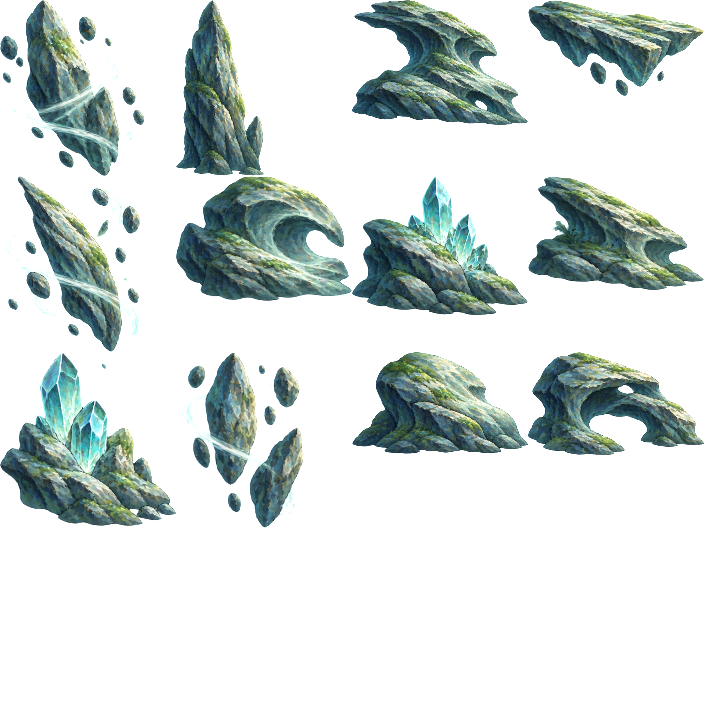
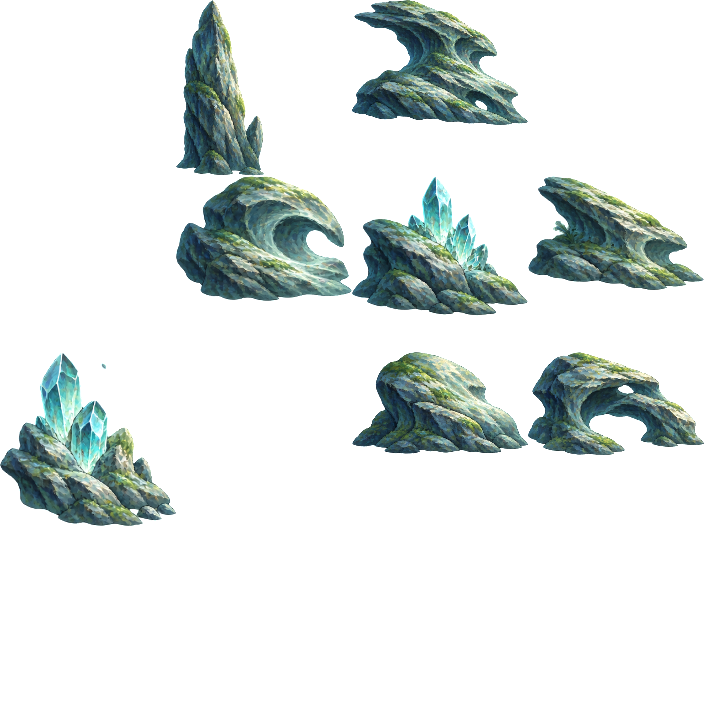
tira os 4 sprites de arte levitante da Galeria de Vento
wind_01, wind_05 e wind_10 sao aglomerados de rocha flutuando com vento ao
redor. wind_04 e uma plataforma com pedrinhas penduradas embaixo. Sao pecas feitas
para pairar, e numa grade isometrica — onde cada rocha assenta num tile e e
quebrada com a picareta — uma peca flutuando nao le como arte. Le como bug, e o
jogador nao tem como distinguir "a arte e assim" de "o jogo quebrou".

A deteccao e automatica e esta no slice-rocks.mjs, nao foi o meu olho: uma rocha
que senta no chao e UM corpo conexo, e estilhaco que paira em volta e um segundo.
Medido nos 75 sprites, a regra descarta exatamente estes 4 e NENHUM dos outros
71 — crystal, ember, frost, ruins e sunstone tem zero pecas soltas.

A base estreita era o criterio errado, e quase custou dois sprites bons
---------------------------------------------------------------------------
crystal_05 (afloramento com cristais) e ember_13 (plataforma de lava vista de
cima) tem base de 10% e 12% da largura, e as duas sao arte valida. A primeira
hipotese foi "afunila demais na base, entao equilibra numa ponta" — plausivel na
tela, e errada nos dados. Cheguei nela depois de medir buracos no alfa (nenhum
sprite tinha peca solta por buraco: as pecas do vento se tocam no alfa), e o que
separou o certo do errado foi a analise de componentes conexas.

A Galeria de Vento passa a ter 8 sprites, de 12. A contagem por bioma ja era
necessaria porque frost tem 14; agora o Vento e o outro extremo, e ROCK_VARIANT_COUNT
[…]

Changed region(s): [[0.0, 0.0, 0.2188, 0.5], [0.25, 0.5, 0.4375, 0.75], [0.75, 0.0, 1.0, 0.1562]]

diff --git a/src/game/rocks.js b/src/game/rocks.js
@@ -36,24 +36,27 @@ export const ROCK_SHEET_ROWS = 4;
 /**
  * Quantos modelos cada bioma tem.
  *
- * Vem do `manifest.json` que acompanha os sprites individuais, e o
- * `scripts/slice-rocks.mjs` escreve este arquivo. O jogo não pode ter um número
- * só: frost tem 14 sprites e sunstone tem 12, e sortear 12 em cima dos 14
- * deixaria dois modelos fora da rodagem toda.
+ * Vem do `manifest.json` que acompanha os sprites individuais, MENOS os que o
+ * `slice-rocks.mjs` recusa por serem arte levitante. A Galeria de Vento tem 12
+ * no manifest e 8 aqui: `wind_01`, `wind_04`, `wind_05` e `wind_10` são
+ * aglomerados e plataformas que flutuam de propósito, e rocha que flutua
+ * numa grade de tiles lê como bug.
  *
- * `min` é o piso, usado quando a folha ainda não foi gerada. É o menor número
- * do jogo de propósito: com uma folha ausente, sortear acima da contagem daria
- * índice fora de faixa, e índice fora de faixa é o placeholder de textura
- * ausente, com 35 caixas pretas na tela.
+ * O jogo não pode ter um número só: frost tem 14 e wind tem 8, e sortear o
+ * maior em cima do menor deixaria modelos fora da folha — que é o placeholder
+ * de textura ausente, com dezenas de caixas pretas na tela.
+ *
+ * `ROCK_VARIANT_COUNT` é o piso, usado quando a folha ainda não foi gerada. É o
+ * menor número do jogo de propósito, pelo mesmo motivo.
  */
-export const ROCK_VARIANT_COUNT = 12;
+export const ROCK_VARIANT_COUNT = 8;
 
 export const ROCK_VARIANT_COUNTS = {
   sunstone: 12,
   frost: 14,
   ember: 13,
   ruins: 12,
-  wind: 12,
+  wind: 8,
   crystal: 12
 };
 

diff --git a/CHANGELOG.md b/CHANGELOG.md
@@ -5,7 +5,34 @@ Este projeto segue [SemVer](https://semver.org/lang/pt-BR/).
 
 ## [Não publicado]
 
+### Removido
+
+- **Quatro sprites de arte levitante da Galeria de Vento**: `wind_01`, `wind_04`,
+  `wind_05` e `wind_10`.
+
+  `wind_01`, `wind_05` e `wind_10` são aglomerados de rocha flutuando com vento
+  ao redor. `wind_04` é uma plataforma com pedrinhas penduradas embaixo. São
+  peças feitas para pairar, e numa grade isométrica — onde cada rocha assenta num
+  tile e é quebrada com a picareta — uma peça flutuando não lê como arte. Lê
+  como bug, e o jogador não tem como distinguir "a arte é assim" de "o jogo
+  quebrou".
+
+  A detecção é automática e está no `slice-rocks.mjs`, não foi o meu olho: uma
+  rocha que senta no chão é **um** corpo conexo, e estilhaço que paira em volta é
+  um segundo. Medido nos 75 sprites, a regra descarta exatamente estes 4 e
+  **nenhum** dos outros 71 — crystal, ember, frost, ruins e sunstone têm zero
+  peças soltas.
+
+  **A base estreita era o critério errado, e quase custou dois sprites bons.**
+  `crystal_05` (afloramento com cristais) e `ember_13` (plataforma de lava vista
+  de cima) têm base de 10% e 12% da largura, e as duas são arte válida. A
+  primeira hipótese foi "afunila demais na base, então equilibra numa ponta" —
+  plausível na tela, e errada nos dados.
+
 ### Mudado
+
+- **A Galeria de Vento passa a ter 8 sprites**, de 12. A contagem por bioma já
+  era necessária (frost tem 14), e agora o Vento é o outro extremo.
 
 - **As rochas agora são doze ou quatorze assuntos diferentes por bioma**, e não
   variações de pose do mesmo assunto. Vem dos sprites individuais entregues no
@@ -34,10 +61,10 @@ Este projeto segue [SemVer](https://semver.org/lang/pt-BR/).
   Nenhum par duplicado, em nenhum dos seis.
 
   - **A contagem de sprites varia por bioma**, e isso quebrou o número único.
-    Com 12 a 14 modelos, sortear de 0 a 11 num bioma de 14 funciona e ninguém
+    Com 8 a 14 modelos, sortear de 0 a 11 num bioma de 14 funciona e ninguém
     percebe: dois modelos simplesmente nunca aparecem. `ROCK_VARIANT_COUNTS`
-    guarda a contagem de cada um, e há teste garantindo que os doze a catorze
-    aparecem mesmo jogando o bioma inteiro.
+    guarda a contagem de cada um, e há teste garantindo que todos aparecem
+    mesmo jogando o bioma inteiro.
   - **A grade das folhas passou a 4x4, fixa nos seis biomas.** A versão anterior
     empacotava cada bioma no tamanho exato, e a folha saía com alturas
     diferentes — o que deixava a grade do jogo errada para os biomas que não
